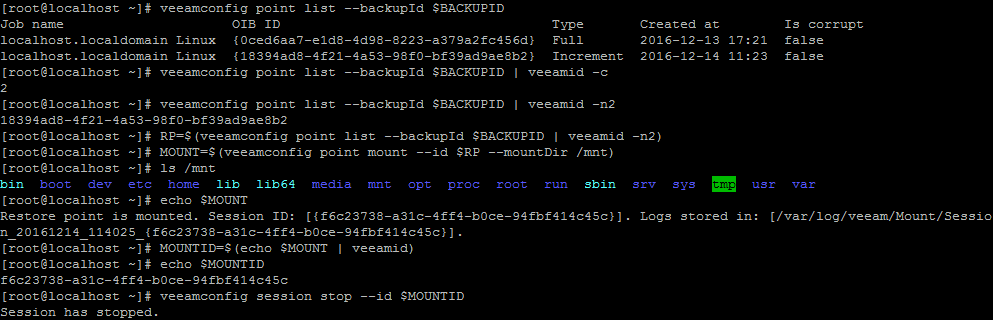
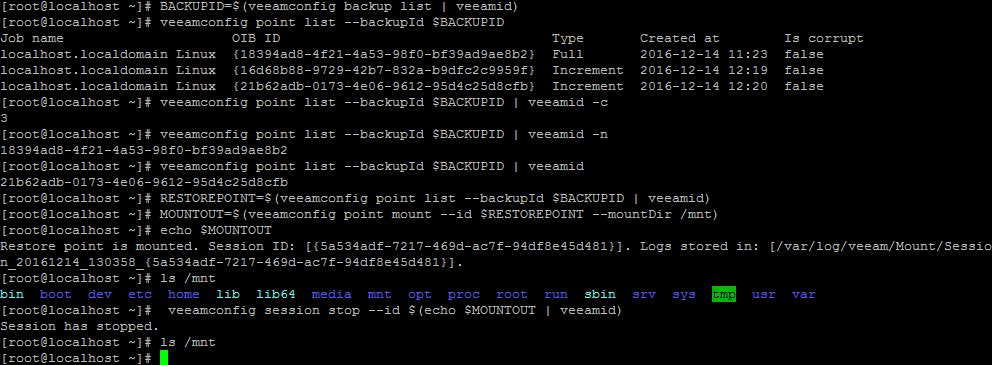
changed to last behaviour and UUID matching
no more bin but with instructions how to make

Changed region(s): [[0.0, 0.0, 1.0, 1.0]]

diff --git a/src/veeamid.c b/src/veeamid.c
@@ -3,27 +3,30 @@
 #include <regex.h>   
 #include <stdlib.h>
 
-//compile with gcc veeamid.c -o veeamid
+//compile with gcc veeamid.c -o /bin/veeamid
 
-enum mode {SELECT, COUNT};
+enum mode {SELECT, COUNT,LAST};
 
 int main(int argc, char *argv[]) {
 	char buf[BUFSIZ];
 	int select = 1;
 	int counter = 0;
-	enum mode wmode = SELECT;
+	enum mode wmode = LAST;
 	
 	regex_t 	argreg;
 	char 		*argpattern = "[-]([a-zA-Z]+)([a-zA-Z0-9]*)";
 
+	
 	regex_t    	preg;
-	char       	*pattern = "[{]([a-z0-9-]+)[}]";
+	//char       	*pattern = "[{]([a-z0-9-]+)[}]";
+	//based on https://en.wikipedia.org/wiki/Universally_unique_identifier
+	char       	*pattern = "([a-z0-9-]{8}-[a-z0-9-]{4}-[a-z0-9-]{4}-[a-z0-9-]{4}-[a-z0-9-]{12})";
 
 	int status = 0;
 	size_t nmatch = 2;
 	regmatch_t pmatch[2];
-	char *resultmatch;
-	char *resultarg;
+	char *resultmatch = NULL;
+	char *resultarg = NULL;
 	
 	status = regcomp(&preg, pattern, REG_EXTENDED);
 	if (status != 0) { fprintf(stdout,"Error compiling regex (should never happend)");return 1;}
@@ -47,10 +50,16 @@ int main(int argc, char *argv[]) {
 				//fprintf(stdout,"%c : %s",switchvar,resultarg);
 				switch (switchvar) {
 					case 'n':
+						if(strlen(resultarg) == 0) { select = 1; } 
 						select = atoi(resultarg);
+						if (select < 1) { select = 1; }
+						wmode = SELECT;
 					break;
 					case 'c':
 						wmode = COUNT;
+					break;
+					case 'l':
+						wmode = LAST;
 					break;
 					default:
 						fprintf(stdout,"Don't know %s\n",argv[i]);
@@ -68,19 +77,25 @@ int main(int argc, char *argv[]) {
 		status = regexec(&preg, buf, nmatch, pmatch, 0);
 		if (status == 0) {
 			counter++;
-			if (wmode == SELECT) {
+			if ((wmode == SELECT && counter == select) || wmode == LAST) {
+				if(resultmatch != NULL) {
+					free(resultmatch);
+				}
 				resultmatch = (char*) malloc (pmatch[1].rm_eo - pmatch[1].rm_so+1);
 				memcpy(resultmatch,&buf[pmatch[1].rm_so],pmatch[1].rm_eo - pmatch[1].rm_so);
-				if (counter == select && wmode == SELECT) {
-					fprintf(stdout,"%s\n",resultmatch);
-				}
-				free(resultmatch);
 			}
 		}
 	}
 	if (wmode == COUNT) {
-		fprintf(stdout,"%d\n",counter);
+			fprintf(stdout,"%d\n",counter);
+	} else if ((wmode == LAST  || wmode == SELECT ) && resultmatch != NULL) {
+			fprintf(stdout,"%s\n",resultmatch);
 	}
+	
+	if(resultmatch != NULL) {
+		free(resultmatch);
+	}
+
 	regfree(&preg);
 	return 0;
 }

diff --git a/README.md b/README.md
@@ -1,8 +1,13 @@
 # VeeamID
-Small tool to extract an ID from veeamconfig utility. Pipe output to it to select the first match
+Small tool to extract an ID from veeamconfig utility. Pipe output to it to select the last match
 
 ```
 veeamconfig backup list | veeamid
+```
+
+Same as -l
+```
+veeamconfig backup list | veeamid -l
 ```
 
 Use -c to count the number of matches
@@ -16,16 +21,18 @@ Use -n<number> to select <number output>. For example to select the second match
 BACKUPID=$(veeamconfig backup list | veeamid)
 veeamconfig point list --backupId $BACKUPID | veeamid -n2
 ```
+If you don't supply a number or you supply 0, it will transform it to 1 (first match)
 
 The matching is based on regex:
 ```
-[{]([a-z0-9-]+)[}]
+([a-z0-9-]{8}-[a-z0-9-]{4}-[a-z0-9-]{4}-[a-z0-9-]{4}-[a-z0-9-]{12})
 ```
-So it matches everything in lower case, numbers and '-' between curly brackets e.g {ab-1} would also match
+
 
 Compiling can be done with:
 ```
-compile with gcc veeamid.c -o veeamid
+wget https://raw.githubusercontent.com/tdewin/veeamid/master/src/veeamid.c
+gcc veeamid.c -o /bin/veeamid
 ```
 
 ![Example](veeamid.png)
